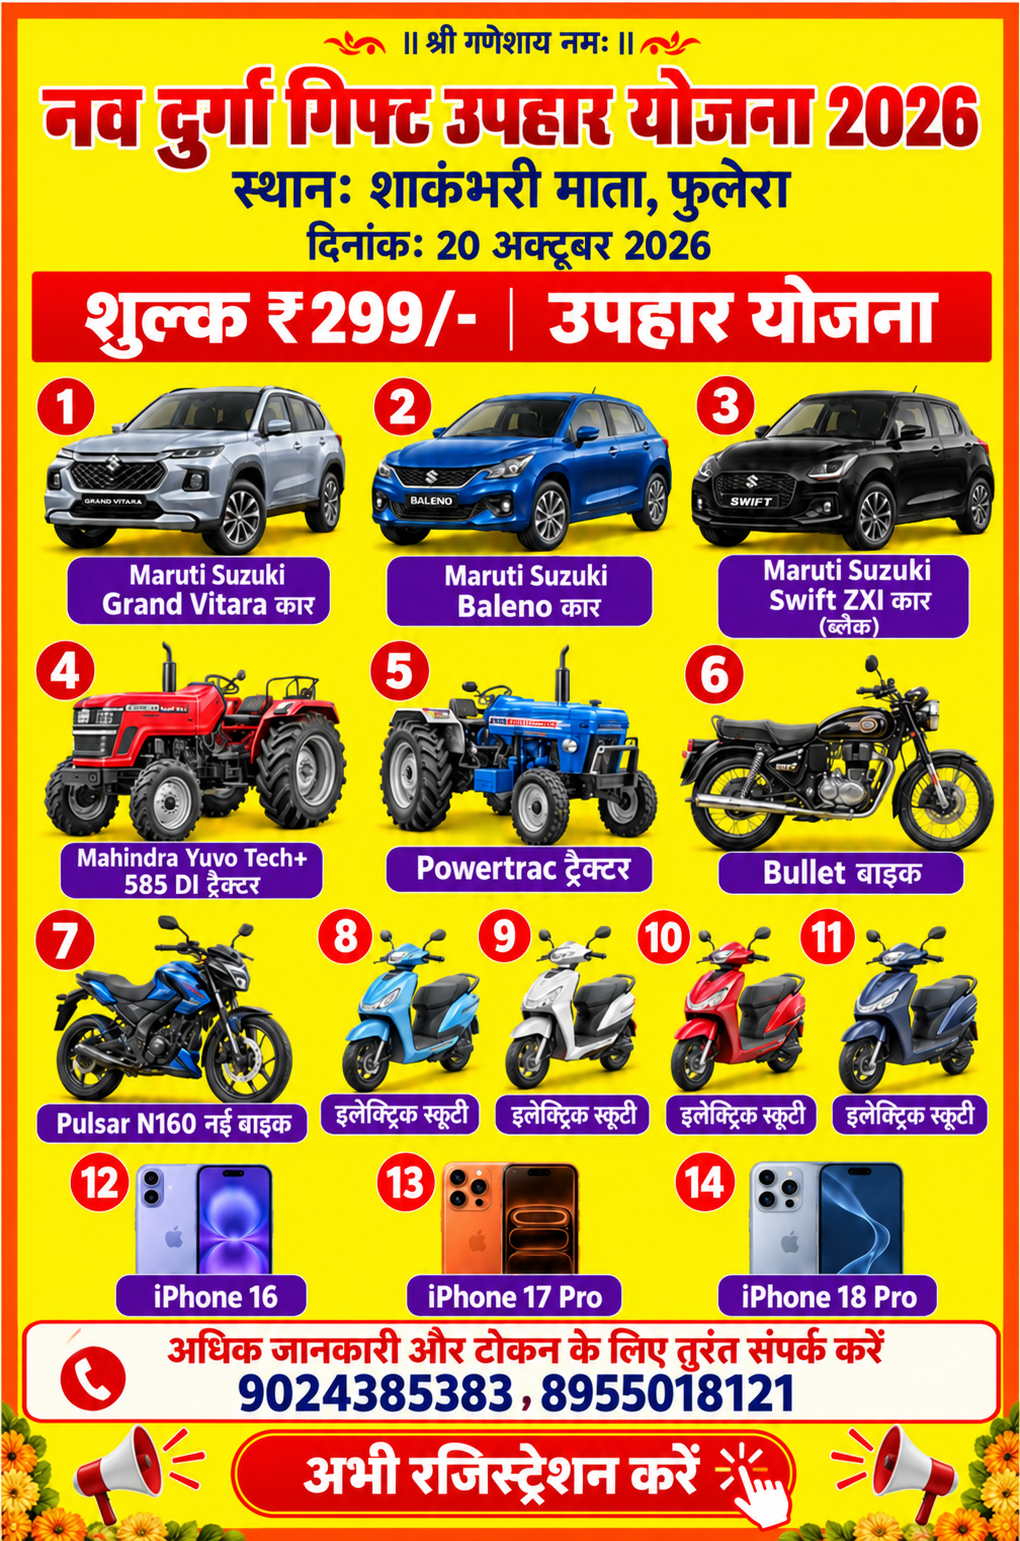
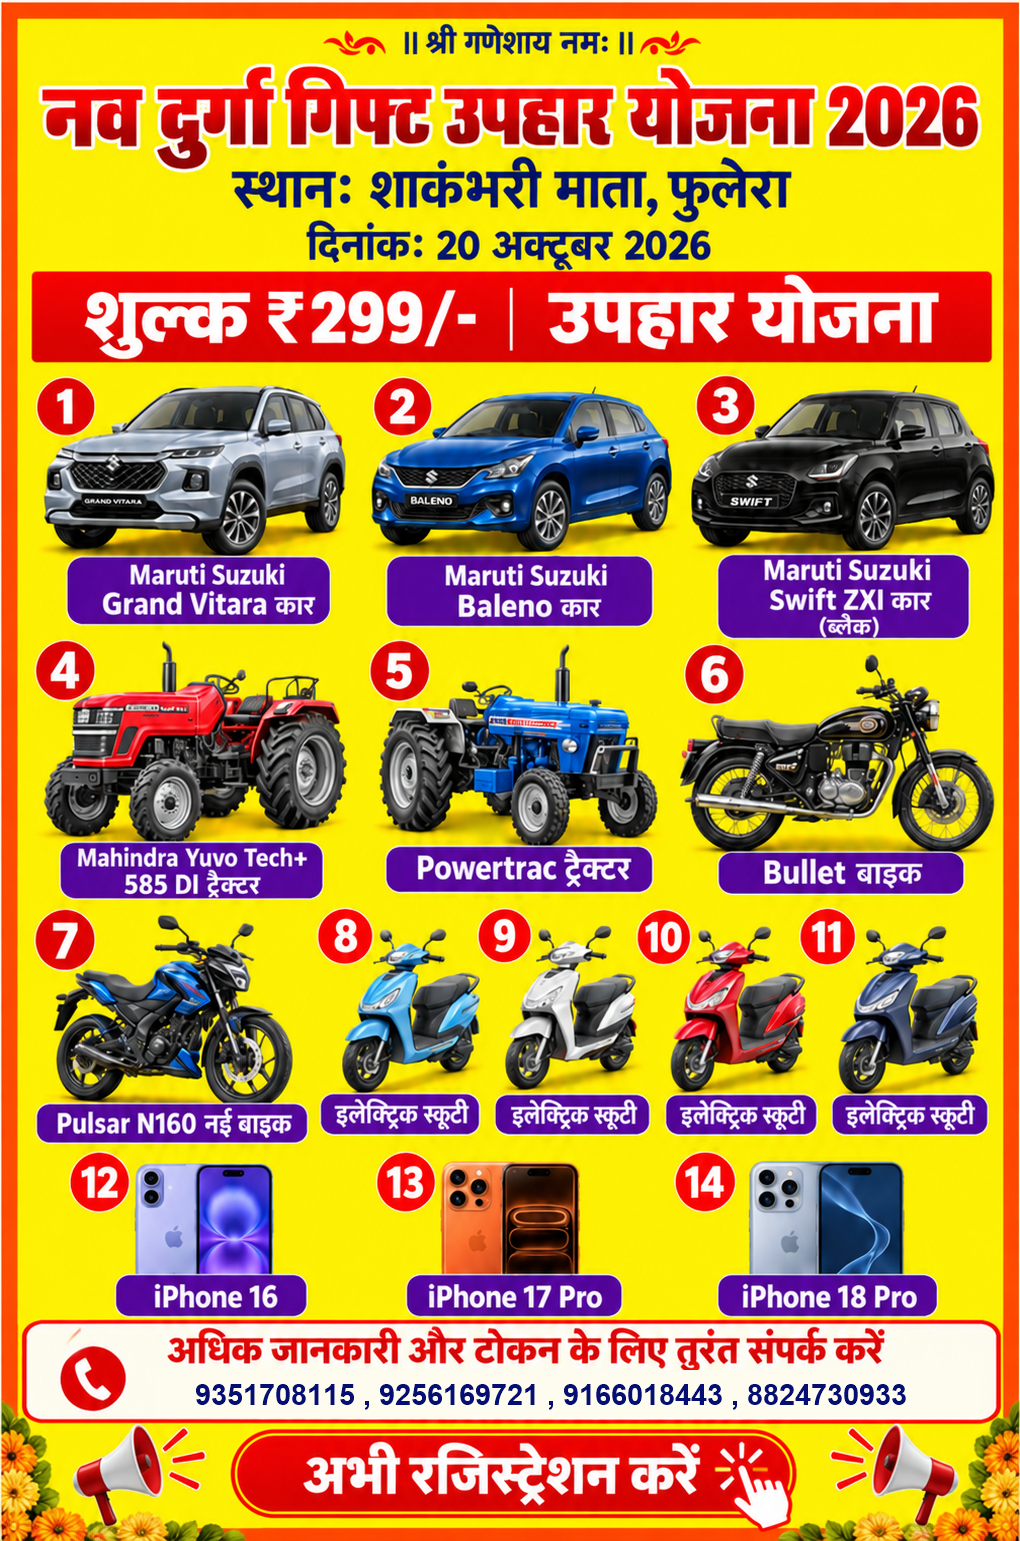
Update master poster image with all 4 contact numbers

Changed region(s): [[0.1824, 0.8722, 0.8814, 0.9345]]

diff --git a/index.html b/index.html
@@ -10,15 +10,15 @@
   <meta property="og:type" content="website">
   <meta property="og:title" content="नव दुर्गा गिफ्ट उपहार योजना 2026 - आधिकारिक सूचना विवरण">
   <meta property="og:description" content="स्थान: शाकंभरी माता, फुलेरा | दिनांक: 20 अक्टूबर 2026 | आधिकारिक हेल्पलाइन: 9351708115, 9256169721, 9166018443, 8824730933">
-  <meta property="og:image" content="assets/nav-durga-gift-upahar-yojana-2026.png">
+  <meta property="og:image" content="assets/nav-durga-gift-upahar-yojana-2026.png?v=20261016_v2">
   <meta name="twitter:card" content="summary_large_image">
-  <meta name="twitter:image" content="assets/nav-durga-gift-upahar-yojana-2026.png">
+  <meta name="twitter:image" content="assets/nav-durga-gift-upahar-yojana-2026.png?v=20261016_v2">
   
   <!-- Theme Color for Mobile Browsers -->
   <meta name="theme-color" content="#25D366">
   <meta name="color-scheme" content="light">
 
-  <link rel="stylesheet" href="style.css?v=20261016_v1">
+  <link rel="stylesheet" href="style.css?v=20261016_v2">
 </head>
 <body>
   <!-- Floating Festive Sparkle Canvas -->
@@ -37,7 +37,7 @@
       <div class="poster-container">
         <!-- Original Pristine Master Poster Image -->
         <img
-          src="assets/nav-durga-gift-upahar-yojana-2026.png"
+          src="assets/nav-durga-gift-upahar-yojana-2026.png?v=20261016_v2"
           alt="नव दुर्गा गिफ्ट उपहार योजना 2026 पोस्टर - स्थान: शाकंभरी माता, फुलेरा, दिनांक: 20 अक्टूबर 2026, संपर्क: 9351708115, 9256169721, 9166018443, 8824730933"
           class="poster-image"
           width="1020"
